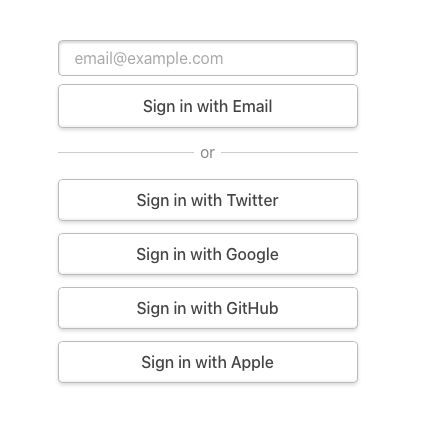
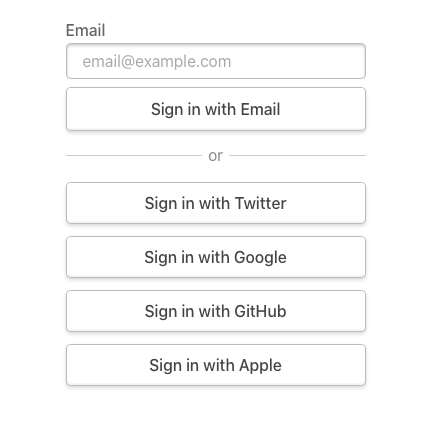
Add new documentation for credentials provider

diff --git a/www/docs/providers/credentials.md b/www/docs/providers/credentials.md
@@ -3,9 +3,21 @@ id: credentials
 title: Credentials
 ---
 
+export const Image = ({ children, src, alt = '' }) => ( 
+  <div
+    style={{
+      padding: '0.2rem',
+      width: '100%',
+      display: 'flex',
+      justifyContent: 'center'
+    }}>
+    <img alt={alt} src={src} />
+  </div>
+ )
+
 ## Overview
 
-The Credentials provider allows you to handle signing in with arbitrary credentials, such as a username and password, two factor authentication or hardware device (e.g. YubiKey U2F / FIDO).
+The Credentials provider allows you to handle signing in with arbitrary credentials, such as a username and password, domain, or two factor authentication or hardware device (e.g. YubiKey U2F / FIDO).
 
 It is intended to support use cases where you have an existing system you need to authenticate users against.
 
@@ -21,19 +33,35 @@ The Credentials provider is specified like other providers, except that you need
 
 If you return an object it will be persisted to the JSON Web Token and the user will be signed in.
 
-If you return `false` then Access Denied will be displayed.
+If you return `false` or `null` then an error will be displayed advising the user to check their details.
 
 ```js title="/pages/api/auth/[...nextauth].js"
 import Providers from `next-auth/providers`
 ...
 providers: [
   Providers.Credentials({
+    // The name to display on the sign in form (e.g. 'Sign in with...')
+    name: 'Credentials',
+    // The credentials is used to generate a suitable form on the sign in page.
+    // You can specify whatever fields you are expecting to be submitted.
+    // e.g. domain, username, password, 2FA token, etc.
+    credentials: {
+      username: { label: "Username", type: "text", placeholder: "jsmith" },
+      password: {  label: "Password", type: "password" }
+    },
     authorize: async (credentials) => {
-      const user = getUserFromCredentials(credentials) // You need to add this!
+      const user = (credentials) => {
+        // You need to provide your own logic here that takes the credentials
+        // submitted and returns either a object representing a user or value
+        // that is false/null if the credentials are invalid.
+        // e.g. return { id: 1, name: 'J Smith', email: 'jsmith@example.com' }
+        return null
+      }
       if (user) {
+        // Any user object returned here will be saved in the JSON Web Token
         return Promise.resolve(user)
       } else {
-        return Promise.resolve(false)
+        return Promise.resolve(null)
       }
     }
   })
@@ -60,3 +88,48 @@ export default () => {
 ```
 
 As the JSON Web Token is encrypted, you can safely store user credentials in it and revalidate them whenever an action is performed. See the [callbacks documentation](/configuration/callbacks) for more information on how to interact with the token.
+
+## With multiple providers
+
+### Usage
+
+You can specify more than one credentials provider by specifying a unique `id` for each one.
+
+You can also use them in conjuction with other provider options.
+
+As with all providers, the order you specify them in, is the order they are displayed on the sign in page.
+
+```js
+  providers: [
+    Providers.Credentials({
+      id: 'domain-login',
+      name: "Domain Account",
+      authorize: async (credentials) => {
+        const user = (credentials) => { /* add function to get user */ } 
+        return Promise.resolve(user)
+      },
+      credentials: {
+        domain: { label: "Domain", type: "text ", placeholder: "CORPNET", value: "CORPNET" },
+        username: { label: "Username", type: "text ", placeholder: "jsmith" },
+        password: {  label: "Password", type: "password" }
+     }
+    }),
+    Providers.Credentials({
+      id: 'intranet-credentials',
+      name: "Two Factor Auth",
+      authorize: async (credentials) => {
+        const user = (credentials) => { /* add function to get user */ } 
+        return Promise.resolve(user)
+      },
+      credentials: {
+        email: { label: "Username", type: "text ", placeholder: "jsmith" },
+        "2fa-key": {  label: "2FA Key" }
+     },
+    }),
+    /* ... additional providers ... /*/
+  ]
+```
+
+### Sign in
+
+<Image src="/img/signin-complex.png"/>

diff --git a/www/docs/configuration/providers.md b/www/docs/configuration/providers.md
@@ -186,12 +186,28 @@ import Providers from `next-auth/providers`
 ...
 providers: [
   Providers.Credentials({
+    // The name to display on the sign in form (e.g. 'Sign in with...')
+    name: 'Credentials',
+    // The credentials is used to generate a suitable form on the sign in page.
+    // You can specify whatever fields you are expecting to be submitted.
+    // e.g. domain, username, password, 2FA token, etc.
+    credentials: {
+      username: { label: "Username", type: "text", placeholder: "jsmith" },
+      password: {  label: "Password", type: "password" }
+    },
     authorize: async (credentials) => {
-      const user = getUserFromCredentials(credentials) // You need to add this!
+      const user = (credentials) => {
+        // You need to provide your own logic here that takes the credentials
+        // submitted and returns either a object representing a user or value
+        // that is false/null if the credentials are invalid.
+        // e.g. return { id: 1, name: 'J Smith', email: 'jsmith@example.com' }
+        return null
+      }
       if (user) {
+        // Any user object returned here will be saved in the JSON Web Token
         return Promise.resolve(user)
       } else {
-        return Promise.resolve(false)
+        return Promise.resolve(null)
       }
     }
   })
